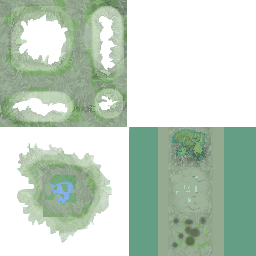
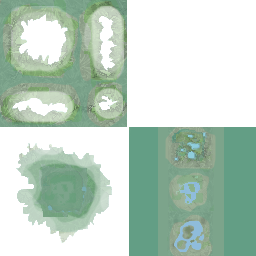
Updated terrain-textures for savannah and swamp.

diff --git a/src/stratos/start/DebugEcology.java b/src/stratos/start/DebugEcology.java
@@ -51,8 +51,8 @@ public class DebugEcology extends Scenario {
   protected Stage createWorld() {
     final TerrainGen TG = new TerrainGen(
       64, 0.2f,
-      Habitat.FOREST      , 2f,
-      Habitat.MEADOW      , 3f,
+      Habitat.MEADOW      , 1f,
+      Habitat.SAVANNAH    , 3f,
       Habitat.BARRENS     , 2f,
       Habitat.DUNE        , 1f
     );

diff --git a/src/stratos/game/wild/Habitat.java b/src/stratos/game/wild/Habitat.java
@@ -126,7 +126,7 @@ public class Habitat extends Index.Entry {
     SAVANNAH = new Habitat(
       Habitat.class, 6, "Savannah",
       "",
-      "savannah_ground.gif", DESERT_FLORA_MODELS,
+      "savannah_ground.png", DESERT_FLORA_MODELS,
       1, true, FERTILITY, 5, INSOLATION, 7, MINERALS, 3
     ),
     BARRENS = new Habitat(

diff --git a/src/stratos/graphics/terrain/TerrainSet.java b/src/stratos/graphics/terrain/TerrainSet.java
@@ -5,6 +5,7 @@
   */
 package stratos.graphics.terrain;
 import stratos.graphics.common.*;
+import stratos.start.Assets;
 import stratos.util.*;
 
 
